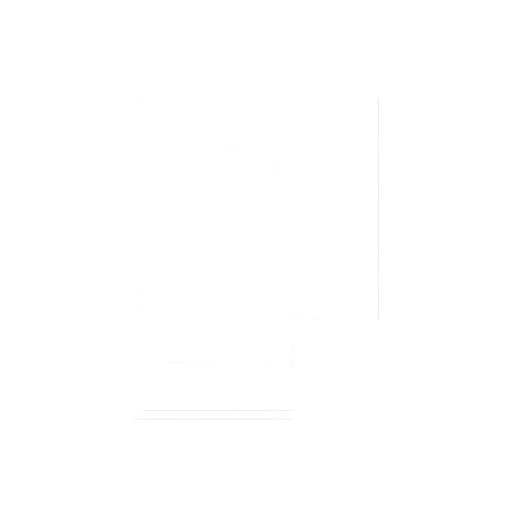
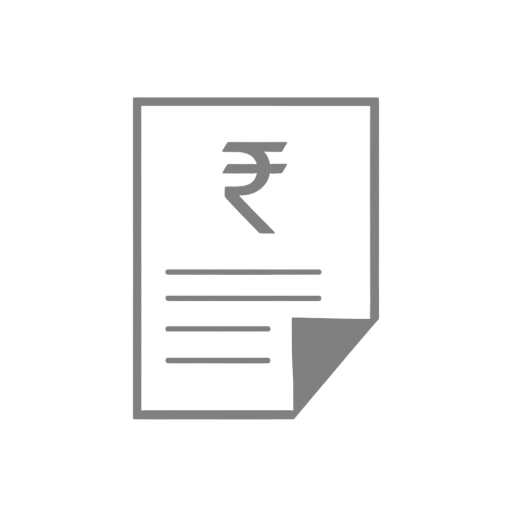
Add files via upload

diff --git a/index.html b/index.html
@@ -22,8 +22,7 @@
       <!-- Splash Screen View -->
       <div id="splash-view" class="view active h-screen w-screen flex-col p-8">
         <div class="flex-grow flex flex-col items-center justify-center text-left">
-        <img src="icon-d-512.webp" style="width: 8rem" class="animate-bounce dark:hidden">
-<img src="icon-512.webp" style="width: 8rem" class="animate-bounce hidden dark:block">
+        <img src="icon-d-512.webp" style="width: 8rem" class="animate-bounce">
           
         </div>
         <div class="absolute bottom-8 w-full text-center left-0">
